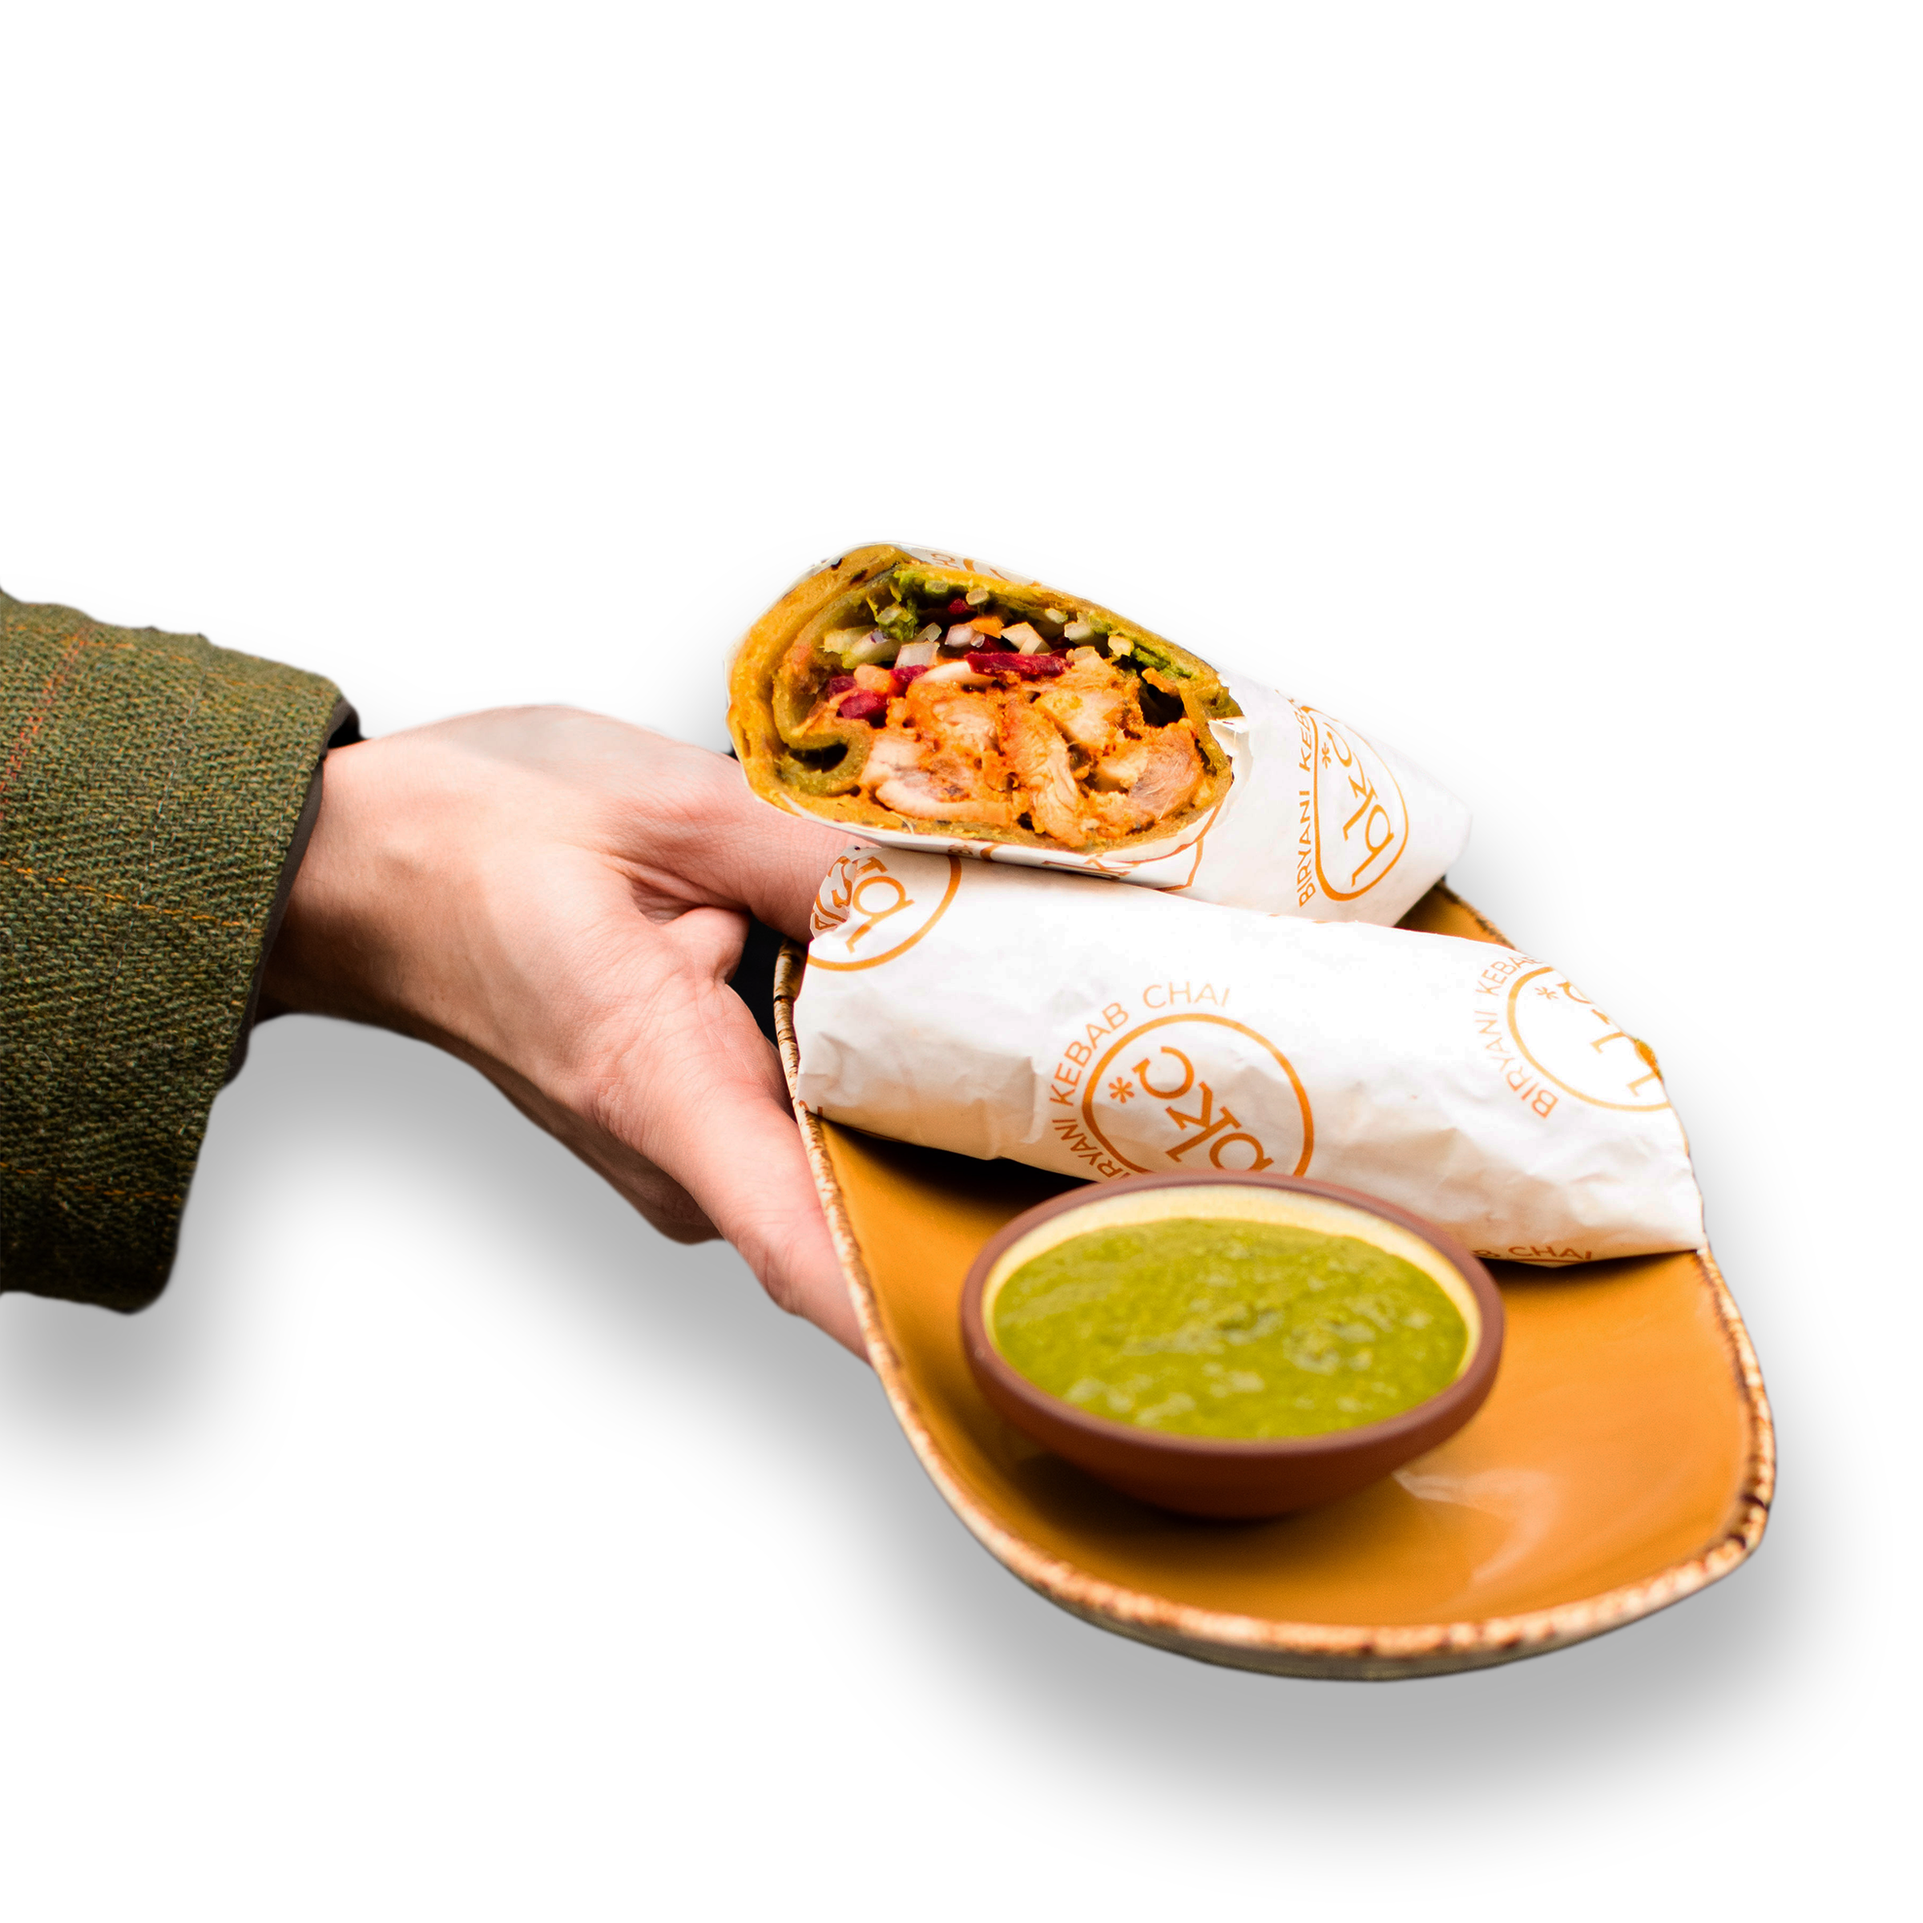
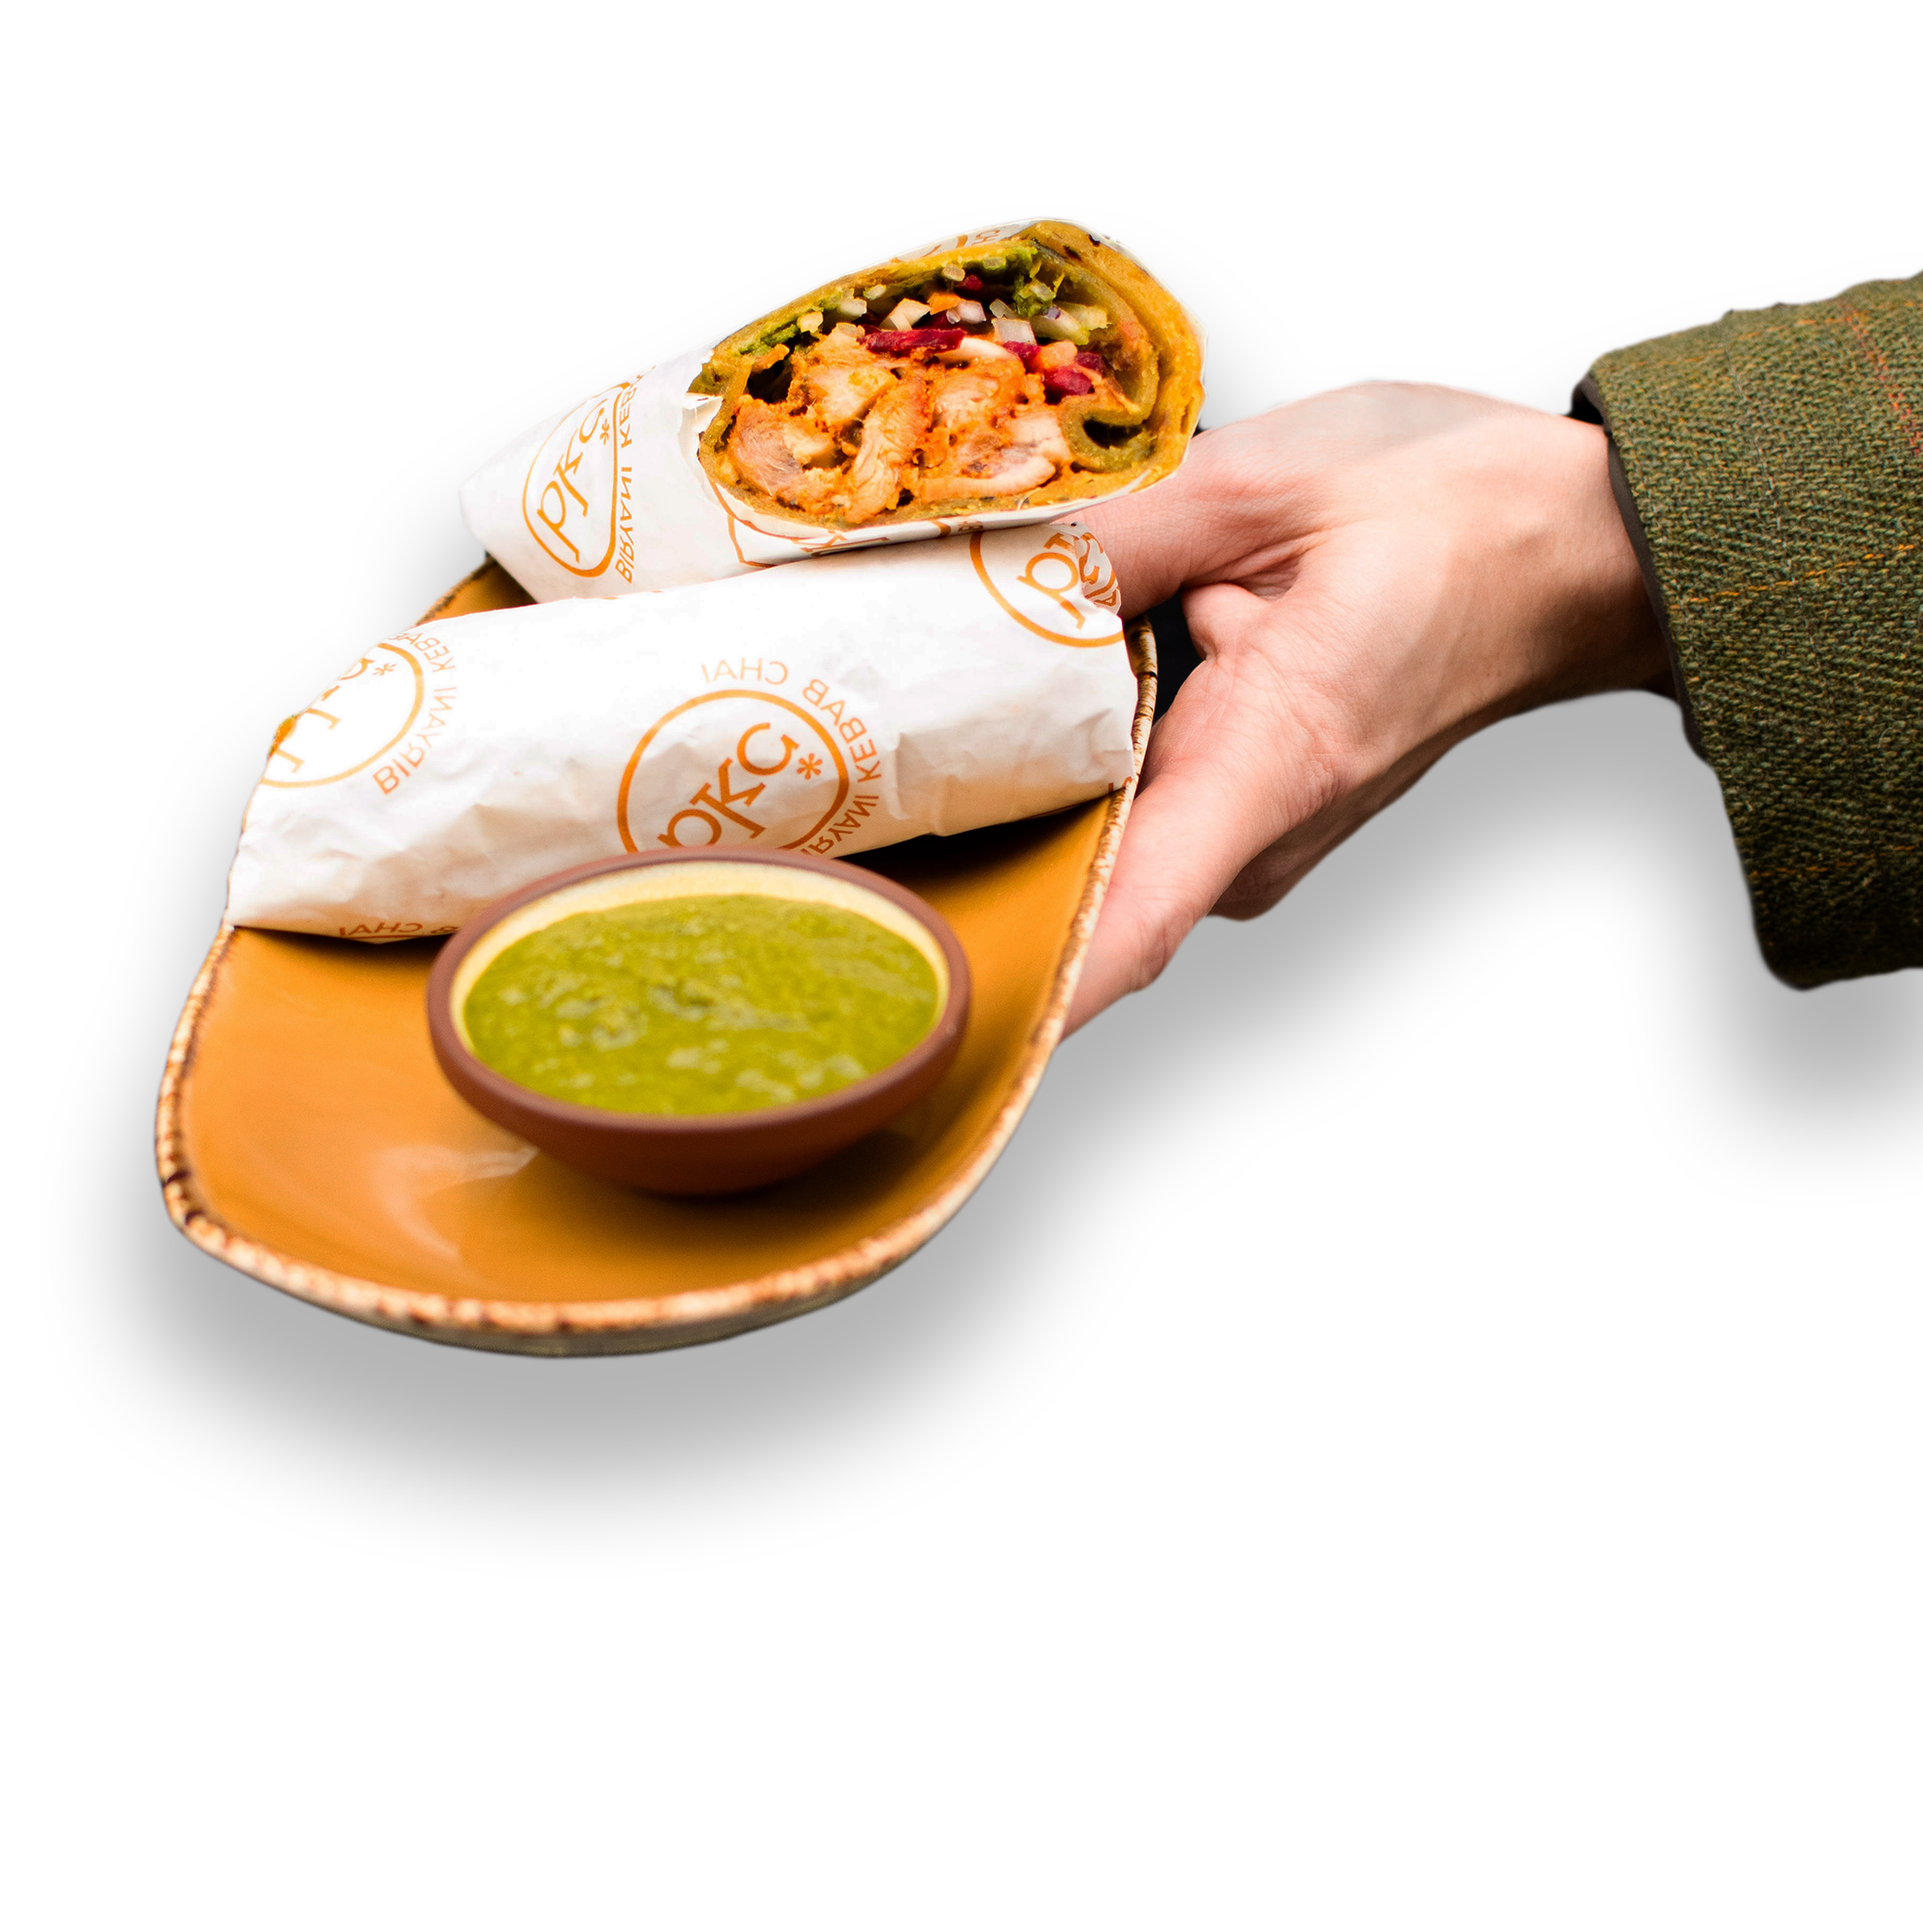
rearrange images
per daves request

diff --git a/index.html b/index.html
@@ -39,7 +39,7 @@
 
     <div class="parallax">
 
-      <img class="cutout right" src="images/cutouts/LinaProscuitto.png" />
+      <img class="cutout right" src="images/cutouts/BKC.png" />
       <div class="section covered pic-adjust top red-gradient">
         <div class="container top">
           <h2 class="white">Hungry For</h2>
@@ -49,7 +49,7 @@
           <button class="bokunButton button white" disabled id=bokun_20599ad5_4fd1_495b_aa80_933abd569e4d data-src="https://widgets.bokun.io/online-sales/3739dac5-8293-4872-8e20-3d56ec0b12a5/product-list/88161?partialView=1" data-testid="widget-book-button" > Book now </button>
         </div>
         <div class="caption right">
-          <p class="caption">Proscuitto from our friends at Lina Stores</p>
+          <p class="caption">Delicious indian street food from our Hungry for Soho Tour</p>
         </div>
       </div>
 
@@ -85,7 +85,7 @@
           <p class="light">Here at Hungry for Food Tours we are a small and carefully selected team of food lovers who have all earned their stripes in the food & drink industry. We believe food tours should be hosted by people who truly know their stuff and we love nothing more than showing off the food and drink our city has to offer.</p>
         </div>
         <div class="caption left">
-          <p class="caption light">The famous white chocolate cookie from Creme</p>
+          <p class="caption light">The famous white chocolate cookie from our Hungry for Soho tour</p>
         </div>
       </div>
 

diff --git a/hungry-for-soho.html b/hungry-for-soho.html
@@ -49,7 +49,7 @@
           <button class="bokunButton button white" disabled id=bokun_15309282_b7eb_475a_98af_8350c9c46ec8 data-src="https://widgets.bokun.io/online-sales/3739dac5-8293-4872-8e20-3d56ec0b12a5/experience/950303?partialView=1" data-testid="widget-book-button" > Book now </button>
         </div>
         <div class="caption right">
-          <p class="caption">Soup Dumplings from infamous Leong's Legend</p>
+          <p class="caption">Soup Dumplings from our Hungry for Soho tour</p>
         </div>
       </div>
 
@@ -68,10 +68,10 @@
           <button class="bokunButton button red" disabled id=bokun_15309282_b7eb_475a_98af_8350c9c46ec8 data-src="https://widgets.bokun.io/online-sales/3739dac5-8293-4872-8e20-3d56ec0b12a5/experience/950303?partialView=1" data-testid="widget-book-button" > Book now </button>
         </div>
         <div class="caption left">
-          <p class="caption light">The kati roll from BKC</p>
+          <p class="caption light">Buttery Italian cured meat from our Hungry for Soho tour</p>
         </div>
       </div>
-      <img class="cutout left below" src="images/cutouts/BKC.png" />
+      <img class="cutout left below" src="images/cutouts/LinaProscuitto.png" />
 
       <div class="section footer covered pic-adjust light">
         <footer></footer>

diff --git a/thirsty-for-edinburgh.html b/thirsty-for-edinburgh.html
@@ -49,7 +49,7 @@
           <button class="bokunButton button white" disabled id=bokun_e25a2621_715c_4832_9f90_ce296cd0331c data-src="https://widgets.bokun.io/online-sales/3739dac5-8293-4872-8e20-3d56ec0b12a5/experience/987517?partialView=1" data-testid="widget-book-button" > Book now </button>
         </div>
         <div class="caption right">
-          <p class="caption">Gin & Tonic from the White Hart</p>
+          <p class="caption">Gin & Tonic from the oldest pub in Edinburgh</p>
         </div>
       </div>
 
@@ -68,7 +68,7 @@
           <button class="bokunButton button red" disabled id=bokun_e25a2621_715c_4832_9f90_ce296cd0331c data-src="https://widgets.bokun.io/online-sales/3739dac5-8293-4872-8e20-3d56ec0b12a5/experience/987517?partialView=1" data-testid="widget-book-button" > Book now </button>
         </div>
         <div class="caption left">
-          <p class="caption light">The kati roll from BKC</p>
+          <p class="caption light">Guinness from the most haunted pub in Edinburgh</p>
         </div>
       </div>
       <img class="cutout below left" src="images/cutouts/Guinness.png" />

diff --git a/styles/style.css b/styles/style.css
@@ -74,6 +74,10 @@ html, body {
   text-align: right;
 }
 
+a {
+  text-decoration: none;
+}
+
 /* TEXT
 -------------------------------------------------- */
 
@@ -532,7 +536,6 @@ ul.tour-specs li {
 
   /*  MEDIA QUERIES - DIVS
   -------------------------------------------------- */
-
   a.link {
     margin-left: 0px;
   }

diff --git a/elements/footer.html b/elements/footer.html
@@ -1,6 +1,6 @@
 <div class="container top">
   <div class="grid footer-grid">
-    <div><h2 class="black">Hungry For</h2></div>
+    <div><a href="/"><h2 class="black">Hungry For</h2></a></div>
     <div class="footer-menu">
       <div>
         <p class="footer-heading">Company</p>
